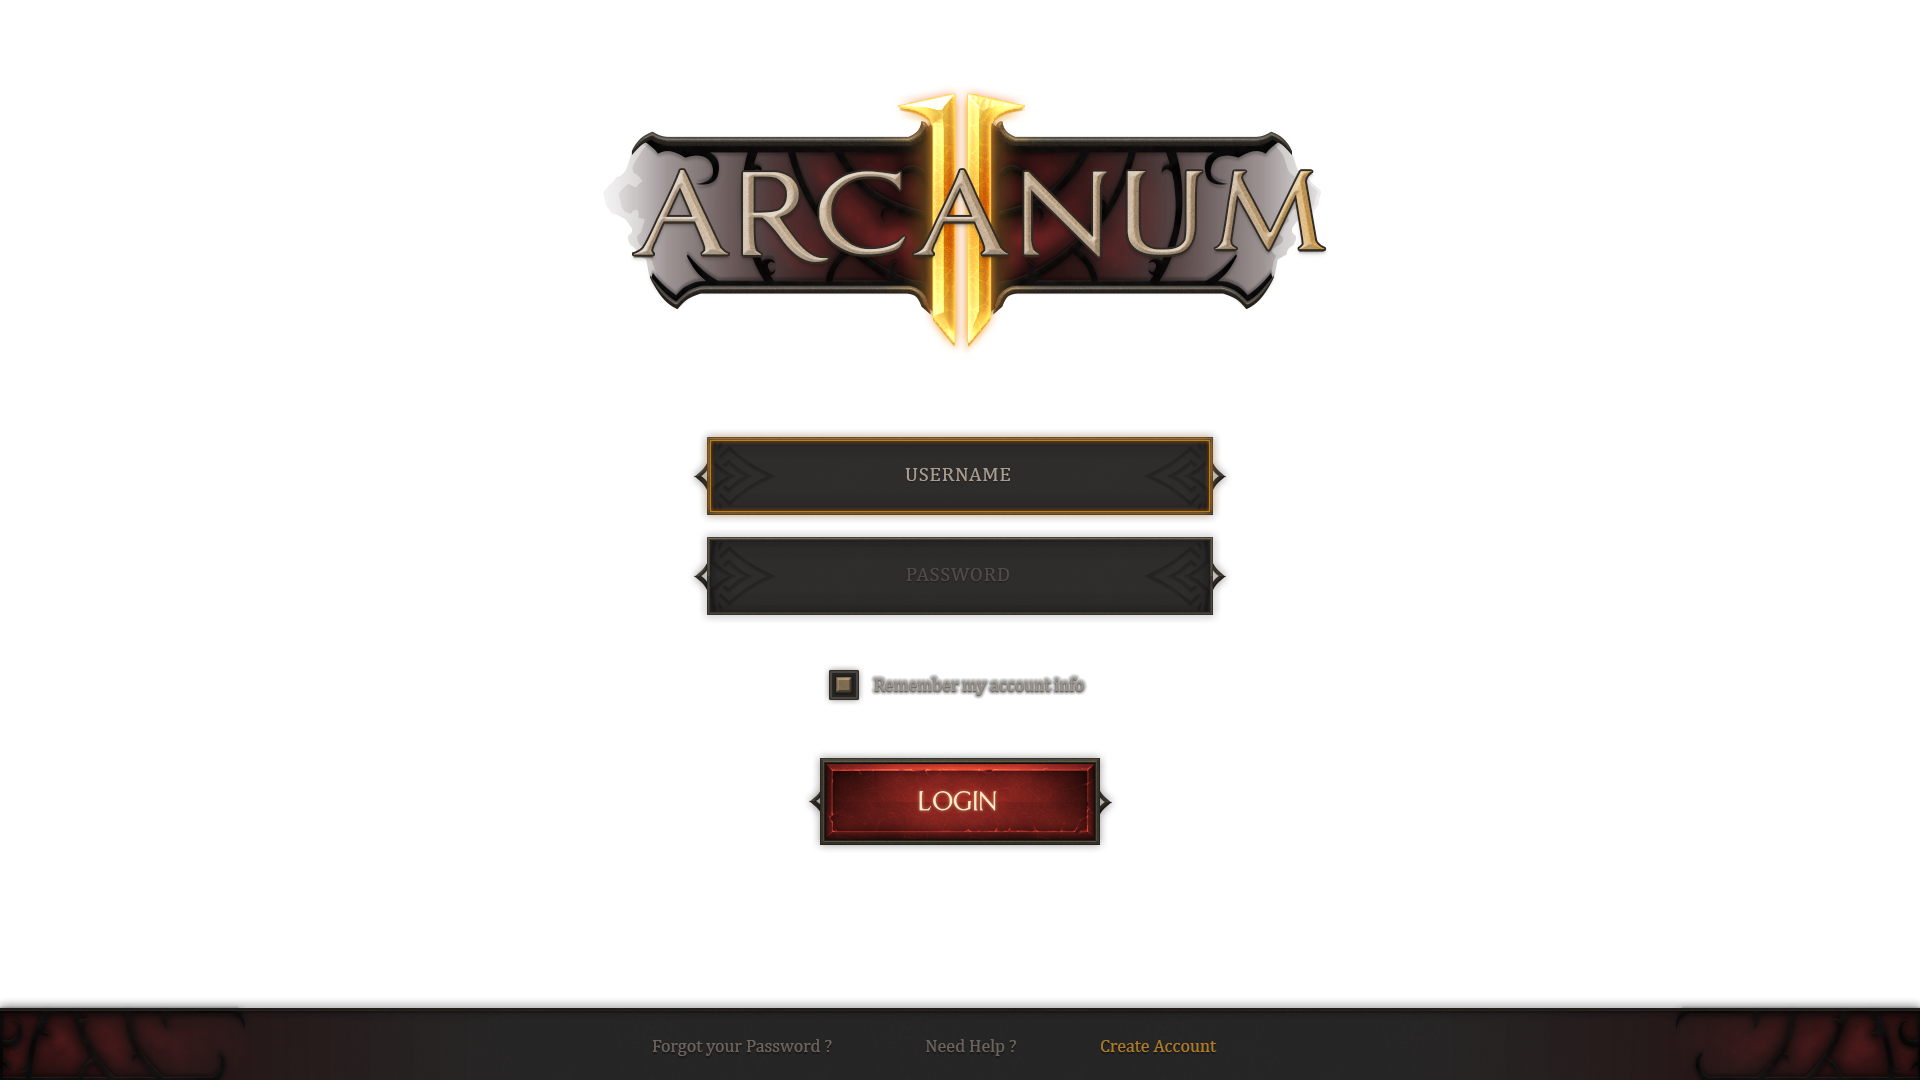
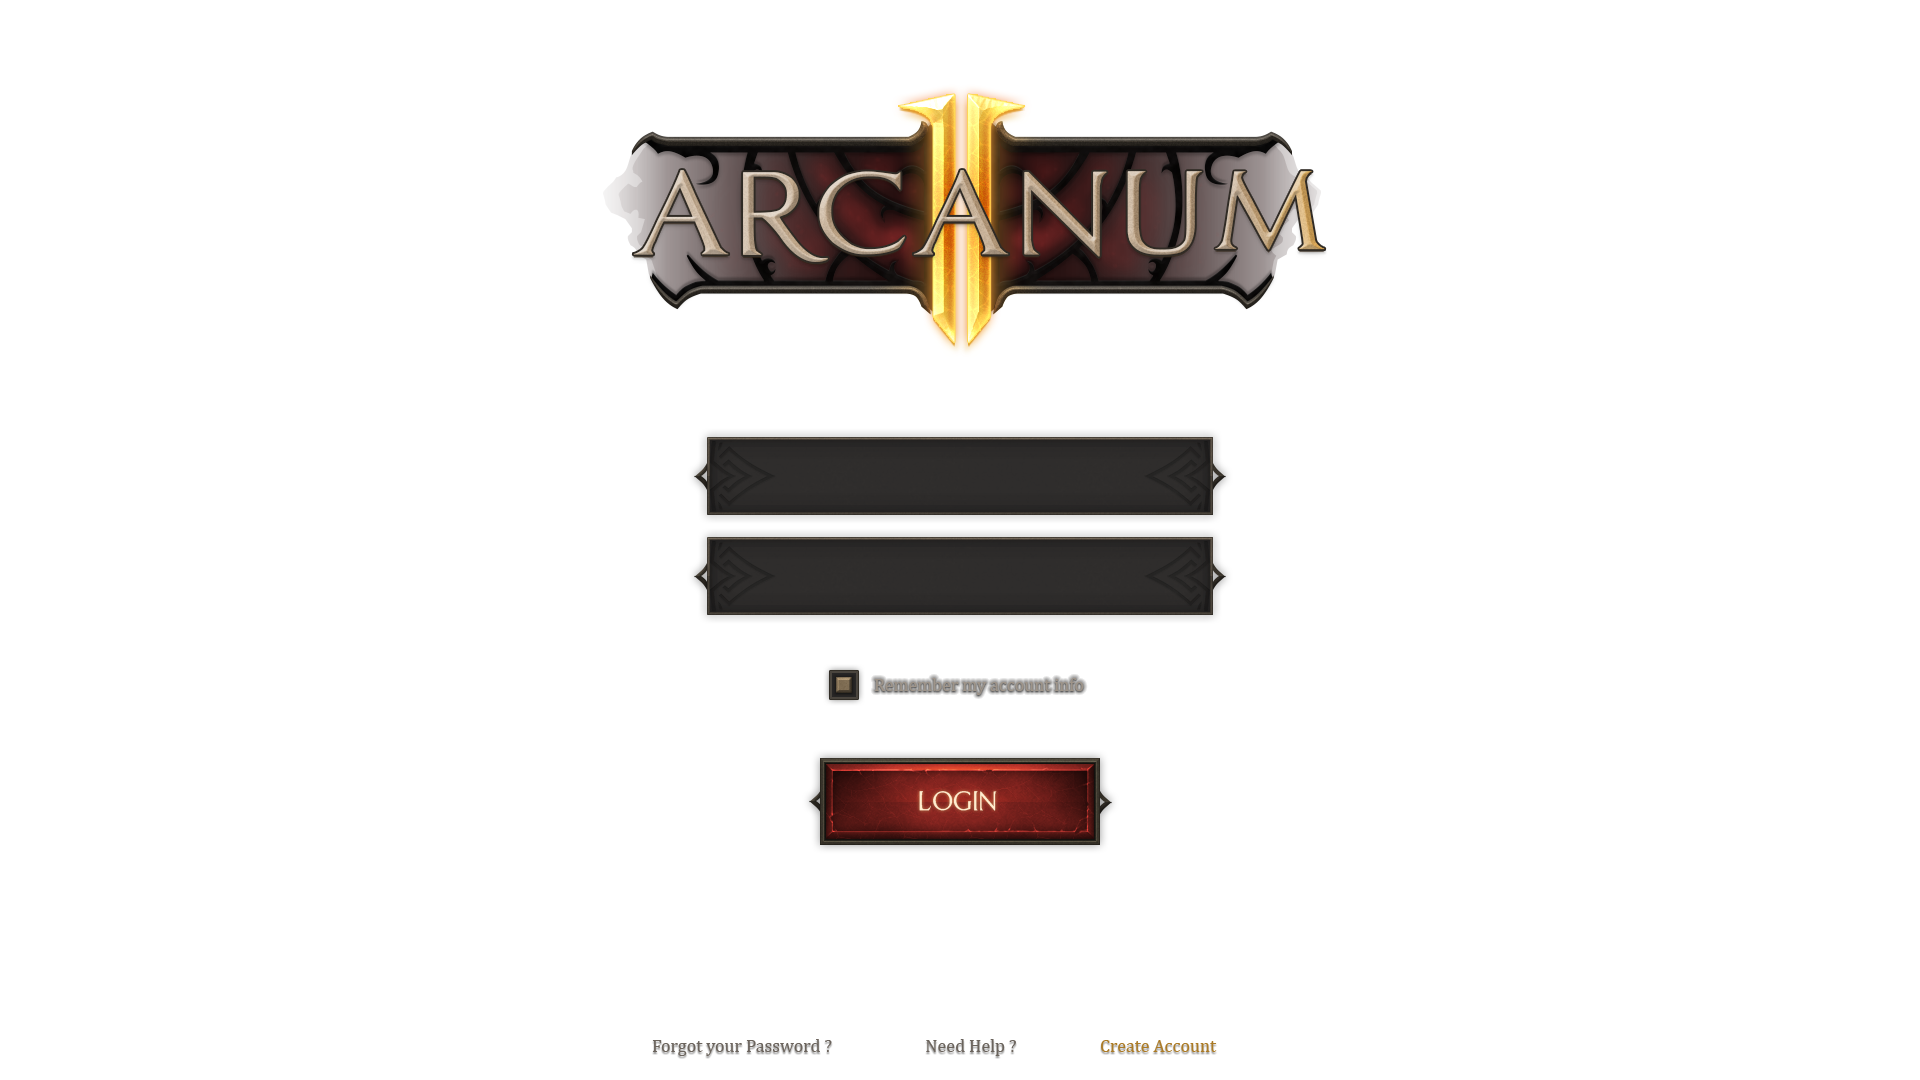
updated title screen without bottom border

Changed region(s): [[0.0, 0.9167, 1.0, 1.0], [0.3438, 0.3972, 0.6562, 0.4889]]

diff --git a/client/src/components/LoginPage.js b/client/src/components/LoginPage.js
@@ -6,6 +6,7 @@ import axios from 'axios';
 import { useNavigate } from 'react-router-dom';
 import { FiEye, FiEyeOff } from 'react-icons/fi';
 import titleScreen from '../images/TitleScreen.png';
+//import inputField from '../images/InputField.png';
 
 function LoginPage({ onLogin }) {
     const [isLogin] = useState(true);
@@ -57,6 +58,7 @@ function LoginPage({ onLogin }) {
                     </label>
                 </div>
                 <div className="mb-3 password-wrapper">
+                 
                     <label className="form-label">
                         Password:
                     </label>
